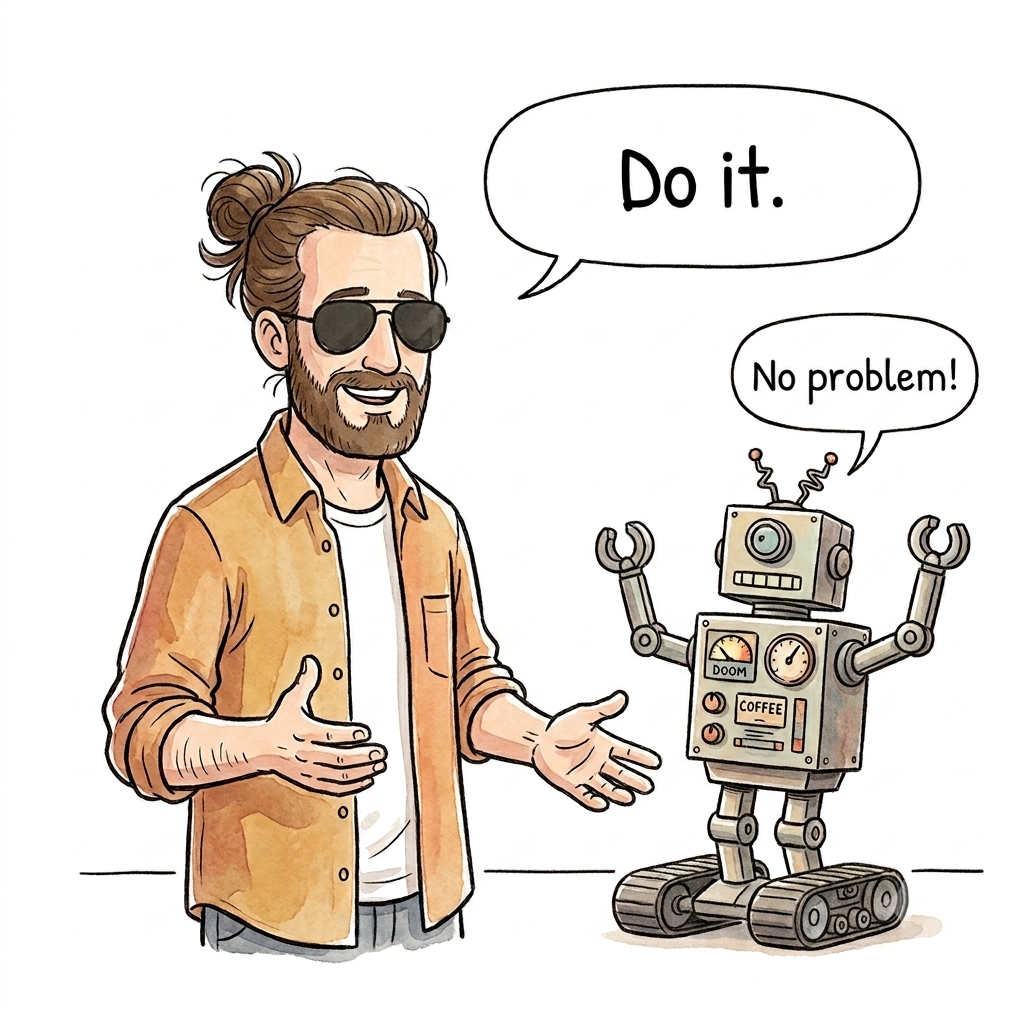
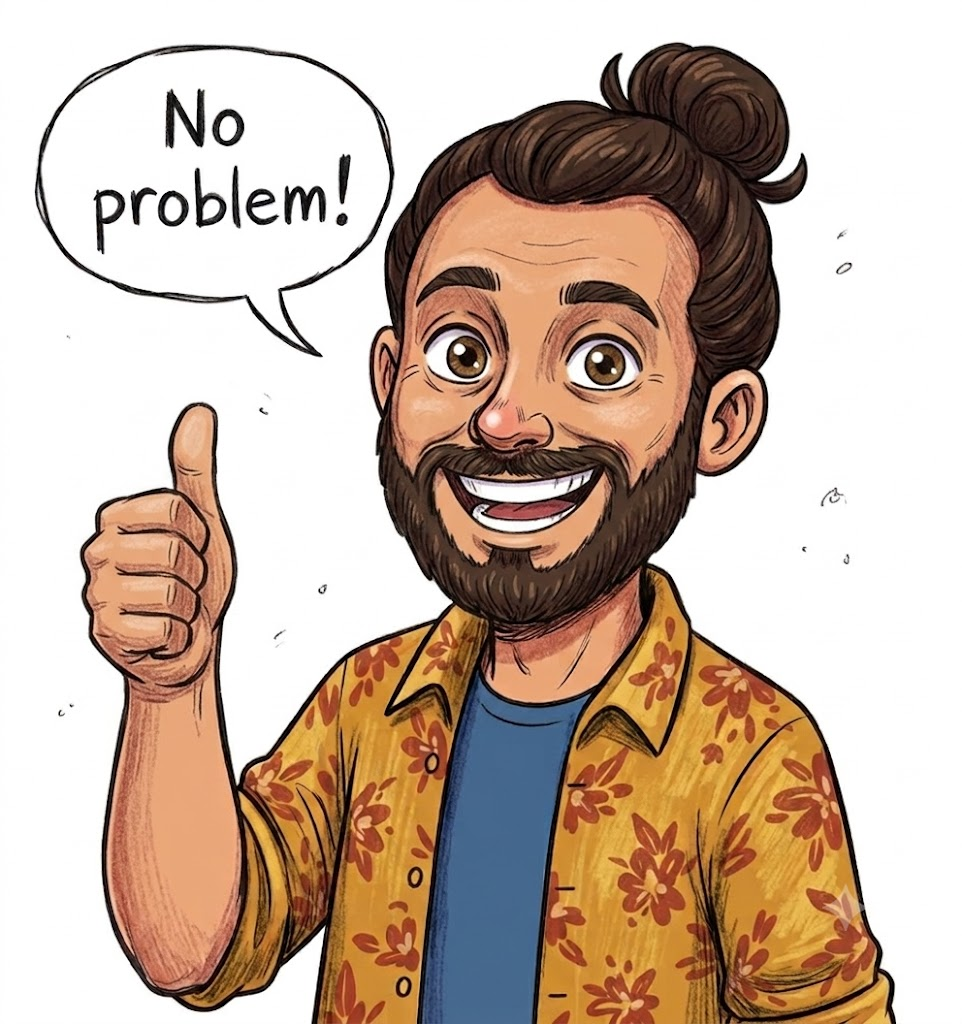
Quick update

diff --git a/src/content.ts b/src/content.ts
@@ -407,7 +407,7 @@ export const SHOWCASE_PROJECTS: {
     {
       title: "Rewind",
       description: "A personalized discovery environment for tracking down forgotten cult classics and obscure cinema. Skip the mainstream streaming algorithms; this engine uses semantic text mapping to curate highly niche film recommendations based on obscure titles, specific micro-moods, or open-ended prompts.",
-      image: "https://raw.githubusercontent.com/AndrewGWatts/AndrewGWatts.github.io/main/asset/rewind.png",
+      image: "https://raw.githubusercontent.com/AndrewGWatts/AndrewGWatts.github.io/main/assets/rewind.png",
       alt: "Rewind AI custom workspace film search layout illustration",
       link: "https://ai.studio/apps/13260ac5-a193-4e63-b85c-8d167b683286?fullscreenApplet=true",
       ctaText: "Remix in AI Studio ↗"